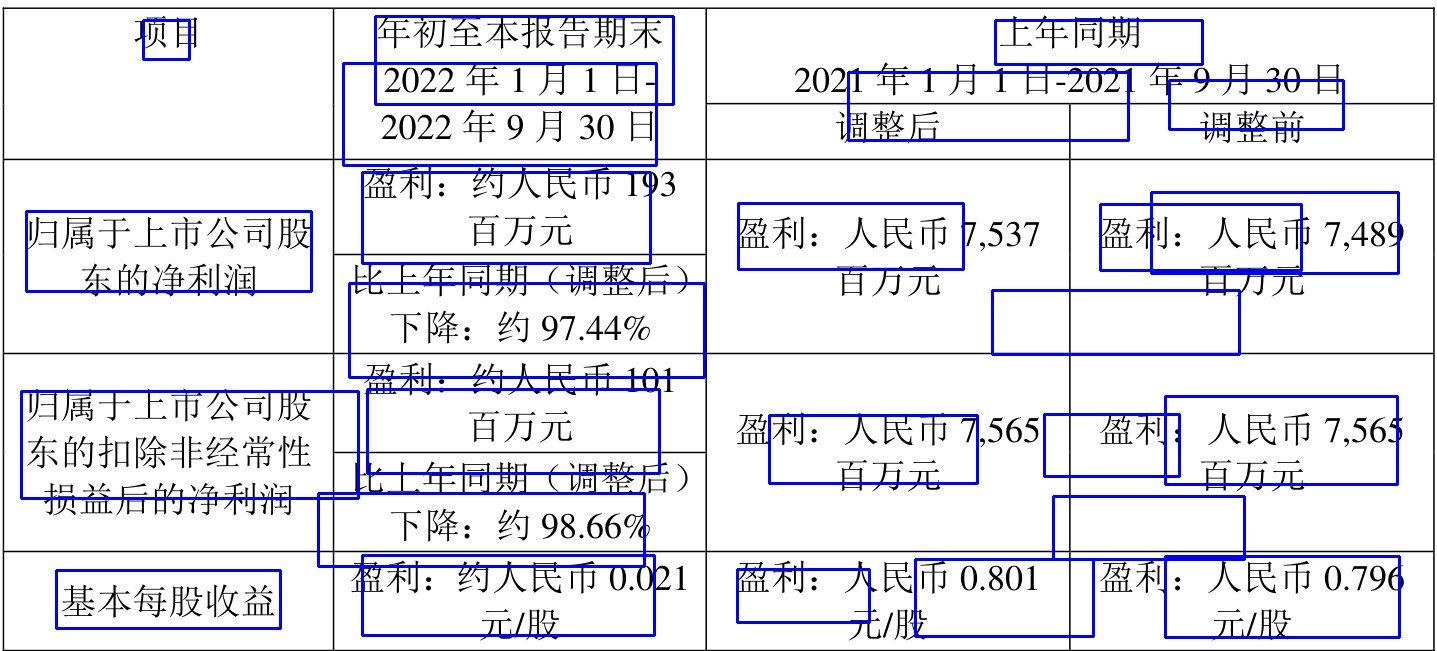
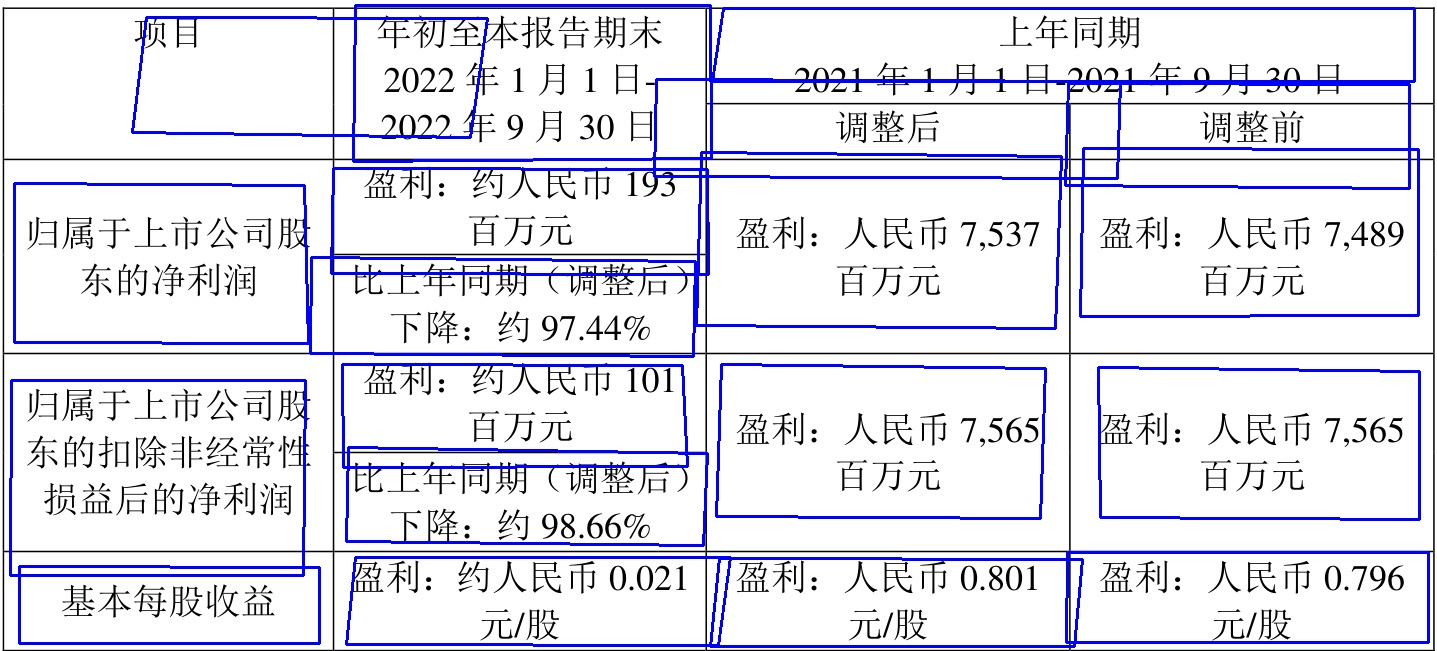
table_tools

Changed region(s): [[0.0, 0.2765, 1.0, 1.0], [0.0919, 0.0, 1.0, 0.4916], [0.5205, 0.6144, 0.6736, 0.6452]]

diff --git a/inference_results/table-image.html b/inference_results/table-image.html
@@ -1,61 +1,4 @@
-<html>
-<style>
-    td {
-        border-left: 1px solid;
-        border-bottom: 1px solid;
-    }
-
-    table,
-    th {
-        border-top: 1px solid;
-        font-size: 10px;
-        border-collapse: collapse;
-        border-right: 1px solid;
-    }
-</style>
-
-<body>
-    <table>
-        <tr>
-            <td rowspan="3">项目</td>
-            <td>年初至本报告期末 2022年1月1日-</td>
-            <td colspan="2">上年同期</td>
-        </tr>
-        <tr>
-            <td>2022年9月30日</td>
-            <td>2021年1月1日-2021年9月30日 调整后</td>
-            <td>调整前</td>
-        </tr>
-        <tr>
-            <td rowspan="2">归属于上市公司股 东的净利润</td>
-            <td>盈利：约人民币193 百万元</td>
-            <td rowspan="2">盈利：人民币7,537 百万元</td>
-            <td rowspan="2">盈利：人民币7,489 百万元</td>
-            <td></td>
-        </tr>
-        <tr>
-            <td>比上年同期 (调整后) 下降：约97.44% 盈利：约人民币101</td>
-            <td></td>
-        </tr>
-        <tr>
-            <td rowspan="2">归属于上市公司股 东的扣除非经常性 损益后的净利润</td>
-            <td>百万元 比上年同期 (调整后)</td>
-            <td rowspan="2">盈利：人民币7,565 百万元</td>
-            <td rowspan="2"></td>
-            <td>盈利：人民币7,565 百万元</td>
-        </tr>
-        <tr>
-            <td>下降：约98.66%</td>
-            <td></td>
-        </tr>
-        <tr>
-            <td>基本每股收益</td>
-            <td>盈利：约人民币0.021 元/股</td>
-            <td>盈利：人民币0.801 元/股</td>
-            <td></td>
-            <td>盈利：人民币0.796 元/股</td>
-        </tr>
-    </table>
-</body>
-
-</html>
+<html><style>td {border-left: 1px solid;border-bottom:1px solid;}
+                    table, th {border-top:1px solid;font-size: 10px;
+                    border-collapse: collapse;border-right: 1px solid;}
+                    </style><body><table><tr><td rowspan="2">项目</td><td rowspan="2">年初至本报告期末 2022年1月1日- 2022年9月30日</td><td colspan="2">上年同期 2021年1月1日-2021年9月30日</td></tr><tr><td>调整后</td><td>调整前</td></tr><tr><td rowspan="2">归属于上市公司股 东的净利润</td><td>盈利：约人民币193 百万元</td><td rowspan="2">盈利：人民币7,537 百万元</td><td rowspan="2">盈利：人民币7,489 百万元</td></tr><tr><td>比上年同期 (调整后) 下降：约97.44%</td></tr><tr><td rowspan="2">归属于上市公司股 东的扣除非经常性 损益后的净利润</td><td>盈利：约人民币101 百万元</td><td rowspan="2">盈利：人民币7,565 百万元</td><td rowspan="2">盈利：人民币7,565 百万元</td></tr><tr><td>比上年同期 (调整后) 下降：约98.66%</td></tr><tr><td>基本每股收益</td><td>盈利：约人民币0.021 元/股</td><td>盈利：人民币0.801 元/股</td><td>盈利：人民币0.796 元/股</td></tr></table></body></html>

diff --git a/table_tools.py b/table_tools.py
@@ -1,0 +1,32 @@
+from pathlib import Path
+from rapid_table import RapidTable, VisTable
+from rapidocr_onnxruntime import RapidOCR
+
+class TableProcessor:
+    def __init__(self, model_path, save_dir):
+        self.table_engine = RapidTable(model_path=model_path)
+        self.ocr_engine = RapidOCR()
+        self.viser = VisTable()
+        self.save_dir = Path(save_dir)
+        self.save_dir.mkdir(parents=True, exist_ok=True)
+
+    def process_image(self, img_path):
+        ocr_result, _ = self.ocr_engine(img_path)
+        table_html_str, table_cell_bboxes, elapse = self.table_engine(img_path, ocr_result)
+        return table_html_str, table_cell_bboxes
+
+    def save_results(self, img_path, table_html_str, table_cell_bboxes):
+        save_html_path = self.save_dir / f"{Path(img_path).stem}.html"
+        save_drawed_path = self.save_dir / f"vis_{Path(img_path).name}"
+        self.viser(img_path, table_html_str, save_html_path, table_cell_bboxes, save_drawed_path)
+        print(table_html_str)
+
+# 使用示例
+if __name__ == "__main__":
+    model_path = './model/ch_ppstructure_mobile_v2_SLANet.onnx'
+    save_dir = "./inference_results/"
+    img_path = './data/table-image.jpg'
+
+    processor = TableProcessor(model_path, save_dir)
+    table_html_str, table_cell_bboxes = processor.process_image(img_path)
+    processor.save_results(img_path, table_html_str, table_cell_bboxes)
